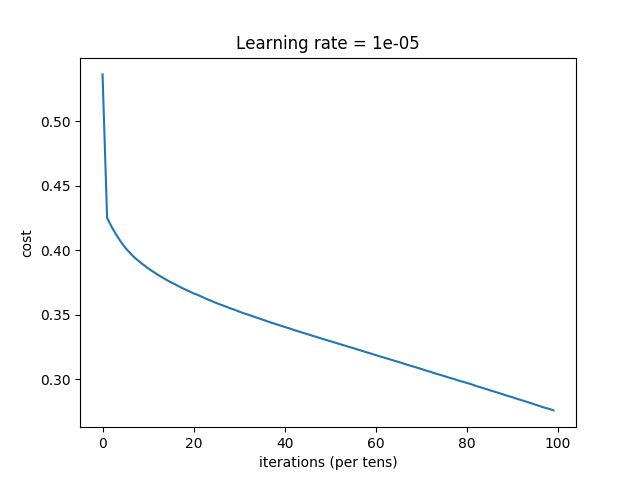
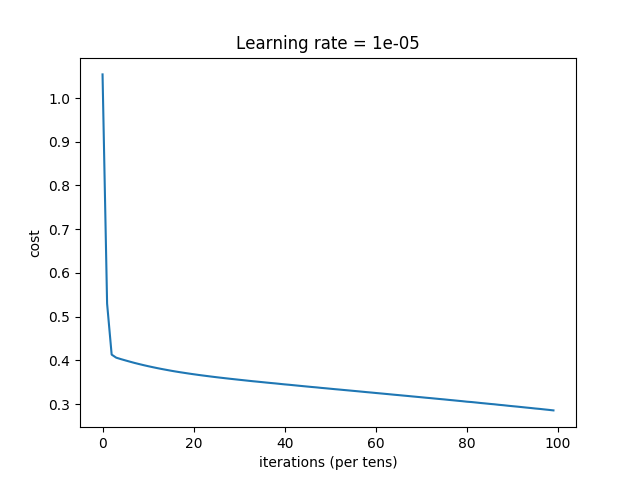
Normalization stuff

diff --git a/gan.py b/gan.py
@@ -9,7 +9,7 @@ from nn_tools import random_mini_batches
 ID_FILENAME = 'pickles/id_to_word_PUNC.pkl'
 X_FILENAME = 'pickles/train_x_PUNC.pkl'
 Y_FILENAME = 'pickles/train_y_PUNC.pkl'
-GENERATOR_OUTPUT_RESULTS = 'results/test_name_no_beam_'
+GENERATOR_OUTPUT_RESULTS = 'results/test_name_normalization_'
 EMBED_FILENAME = 'embedding_matrix.pkl'
 
 #INITIAL DATA SPLITTING PARAMETERS
@@ -45,7 +45,7 @@ D_HIDDEN_UNITS = 100
 D_ADV_BATCH_SIZE = 50
 D_EPOCH_NUM_ADV = 3
 
-TOTAL_BATCH = 35
+TOTAL_BATCH = 20
 
 def shuffle_data(X, Y):
 	m = X.shape[0]
@@ -123,6 +123,7 @@ def get_reward(samples, rollout_num, beam, D, G):
             rewards[SEQ_LENGTH-1] += ypred
 
     rewards = np.transpose(np.array(rewards)) / (1.0 * rollout_num)  # batch_size x seq_length
+    rewards = (rewards - np.mean(rewards, axis=1, keepdims=True)) / np.std(rewards, axis=1, keepdims=True)
     return rewards
 
 def main():
@@ -186,21 +187,22 @@ def main():
     G.train(G_X_train, G_Y_train, G_X_test, G_Y_test)
     print("Finished training G. Started pre-training D.")
 
-    samples = G.sess.run(G.gen_examples, feed_dict={G.sample_size: G_PRE_SAMPLE_SIZE, G.beam_width: VOCAB_SIZE})
-
     # Generate text after pretraining 
-    after_pretrain_sample = G.sess.run(G.gen_examples, feed_dict={G.sample_size: G_X_train.shape[0], G.beam_width: VOCAB_SIZE/2})
+    after_pretrain_sample = G.sess.run(G.gen_examples, feed_dict={G.sample_size: G_X_train.shape[0], G.beam_width: VOCAB_SIZE})
     pickle.dump(after_pretrain_sample,open(GENERATOR_OUTPUT_RESULTS+'after_pretrain.pkl', 'wb'))
 
     #################################################################################
     #                         DISCRIMINATOR PRE-TRAINING                            #
     #################################################################################
 
-    D_X_train, D_Y_train = format_samples(X_pos_pre[:G_PRE_SAMPLE_SIZE], samples)
-    D_X_train, D_X_test, D_Y_train, D_Y_test = split_data(D_X_train, D_Y_train, DISCRIMINATOR_TRAIN_TEST_SPLIT)
-
     D.build_graph()
-    D.train(D_X_train, D_Y_train, D_X_test, D_Y_test, report=True)
+    
+    for i in range(10):
+        print(i)
+        samples = G.sess.run(G.gen_examples, feed_dict={G.sample_size: G_PRE_SAMPLE_SIZE, G.beam_width: VOCAB_SIZE})
+        D_X_train, D_Y_train = format_samples(X_pos_pre[:G_PRE_SAMPLE_SIZE], samples)
+        D_X_train, D_X_test, D_Y_train, D_Y_test = split_data(D_X_train, D_Y_train, DISCRIMINATOR_TRAIN_TEST_SPLIT)
+        D.train(D_X_train, D_Y_train, D_X_test, D_Y_test, report=True)
     print("Finished training D")
 
 	#################################################################################

diff --git a/count_unique_grams.py b/count_unique_grams.py
@@ -22,7 +22,7 @@ unique_bigrams_data = set(find_ngrams(data,2))
 unique_trigrams_data = set(find_ngrams(data,3))
 unique_quadgrams_data = set(find_ngrams(data,4))
 
-generated_text = pickle.load(open('results/test_name_after_adv.pkl', 'rb'))
+generated_text = pickle.load(open('results/test_name_train_D_more_after_adv.pkl', 'rb'))
 generated_text = generated_text.reshape(-1)
 
 unique_bigrams_model = set(find_ngrams(generated_text,2))

diff --git a/generator.py b/generator.py
@@ -177,7 +177,7 @@ class Generator:
         grads_and_params = optimizer.compute_gradients(loss)
         (grads, params) = np.transpose(grads_and_params).tolist()
 
-        grads, _ = tf.clip_by_global_norm(grads, 10.0)
+        grads, _ = tf.clip_by_global_norm(grads, 5.0)
 
         return loss, optimizer.apply_gradients(zip(grads, params))
 

diff --git a/print_samples.py b/print_samples.py
@@ -1,7 +1,7 @@
 import pickle
 
 ID_FILENAME = 'pickles/id_to_word_PUNC.pkl'
-TEST_NAME = ''
+TEST_NAME = 'increase_pre_split_'
 OUTPUT_RANDOM = 'results/test_name_' + TEST_NAME + 'before_pretrain.pkl'
 OUTPUT_LSTM = 'results/test_name_' + TEST_NAME + 'after_pretrain.pkl'
 OUTPUT_GAN = 'results/test_name_' + TEST_NAME + 'after_adv.pkl'
